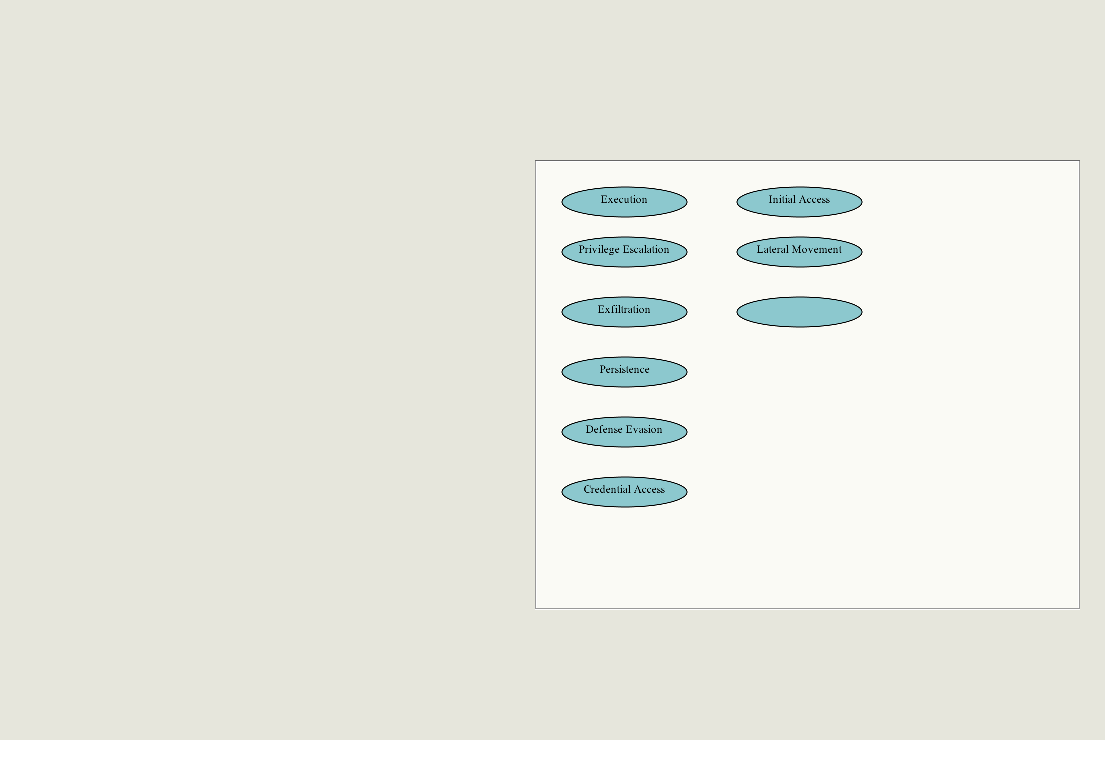
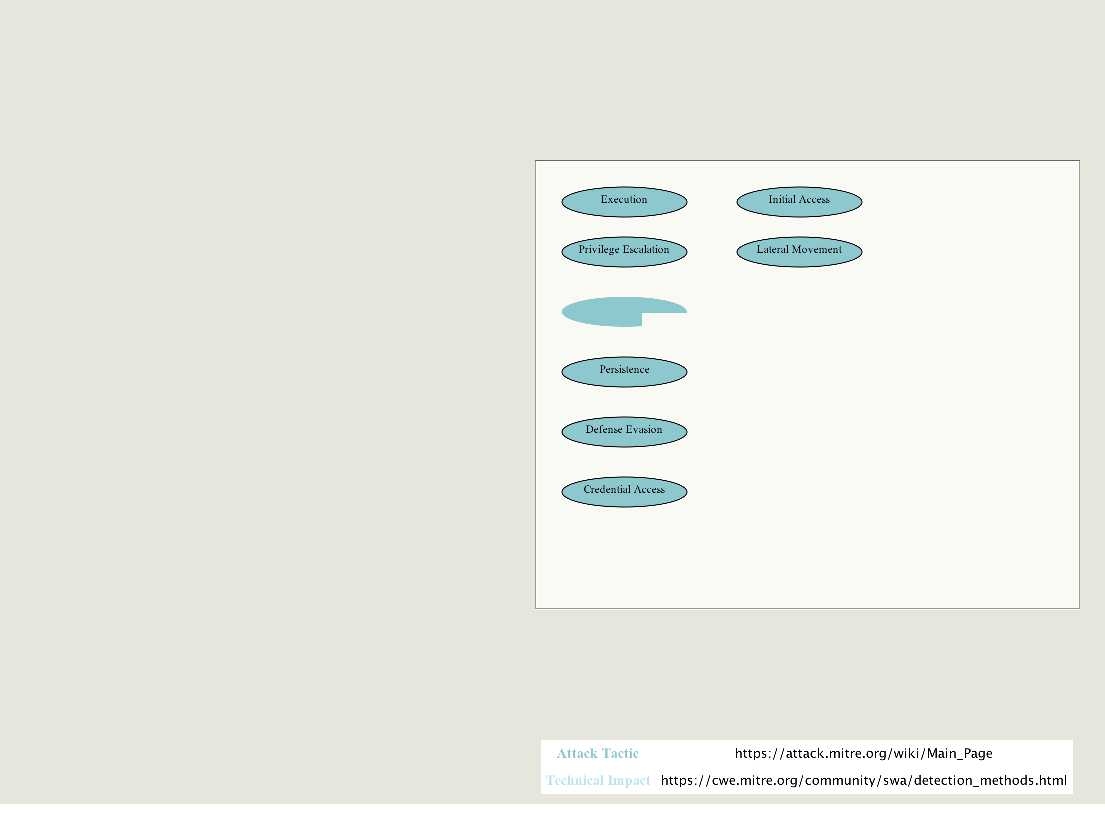
Color coding graphs

Changed region(s): [[0.4615, 0.1811, 0.9846, 0.664], [0.4615, 0.7244, 0.9846, 0.815], [0.4923, 0.8753, 0.9846, 0.9659]]

diff --git a/src/main/java/GraphVisualizer.java b/src/main/java/GraphVisualizer.java
@@ -26,6 +26,7 @@ import javax.swing.JPanel;
 import javax.swing.JLabel;
 import javax.swing.SwingConstants;
 
+import java.awt.Graphics;
 import java.awt.Color;
 import java.awt.Container;
 import java.awt.GridBagLayout;
@@ -65,6 +66,7 @@ class GraphVisualizer extends JApplet {
         JPanel panel = new JPanel(new GridBagLayout());
         panel.setBackground(darkbeige);
         mainPanel.add(panel);
+
         GridBagConstraints c = new GridBagConstraints();
         c.gridx = 0;
         c.gridy = 0;
@@ -82,11 +84,36 @@ class GraphVisualizer extends JApplet {
         c.gridy++;
         panel.add(dependencyComponent, c);
 
+        //Illustrate the color coding system and give references to mitre 
+        JPanel colorCode = new JPanel(new GridBagLayout());
+        colorCode.setBackground(Color.white);
+        GridBagConstraints cc = new GridBagConstraints();
+        cc.gridx = 0;
+        cc.gridy = 0;
+        cc.insets = new Insets(5, 5, 5, 5);
+        JLabel atLabel = new JLabel("Attack Tactic");
+        Font atFont = new Font("Times New Roman", Font.BOLD, 14);
+        atLabel.setFont(atFont);
+        atLabel.setForeground(darkpowder);
+        colorCode.add(atLabel, cc);
+        cc.gridy++;
+        JLabel tiLabel = new JLabel("Technical Impact");
+        tiLabel.setFont(new Font("Times New Roman", Font.BOLD, 14));
+        tiLabel.setForeground(powderblue);
+        colorCode.add(tiLabel, cc);
+        cc.gridx++;
+        colorCode.add(new JLabel("https://cwe.mitre.org/community/swa/detection_methods.html"), cc);
+        cc.gridy--;
+        colorCode.add(new JLabel("https://attack.mitre.org/wiki/Main_Page"), cc);
+        c.gridy++;
+        panel.add(colorCode, c);
+
 
     }
 
     /**
      * Creates a component from a JGraphXAdapter and sets its graph's properties.
+     *
      * @param graph The JGraphXAdapter created from the dependency or association JGrapht graph.
      * @return The Swing component illustrating the graph.
      */
@@ -124,7 +151,7 @@ class GraphVisualizer extends JApplet {
         Object[] cells = graph.getChildVertices(graph.getDefaultParent());
         Object[] impactCells = new Object[8];
         int i = 0;
-        for (Object c: cells) {
+        for (Object c : cells) {
             mxCell cell = (mxCell) c;
             mxGeometry geo = cell.getGeometry();
 
@@ -154,5 +181,17 @@ class GraphVisualizer extends JApplet {
 
         return component;
     }
+
+//    private static class RectDraw extends JPanel {
+//
+//        public void paintComponent(Graphics g) {
+//            super.paintComponent(g);
+//            g.drawRect(230, 80, 10, 10);
+//            g.setColor(Color.RED);
+//            g.fillRect(230, 80, 10, 10);
+//        }
+//
+//
+//    }
 
 }
